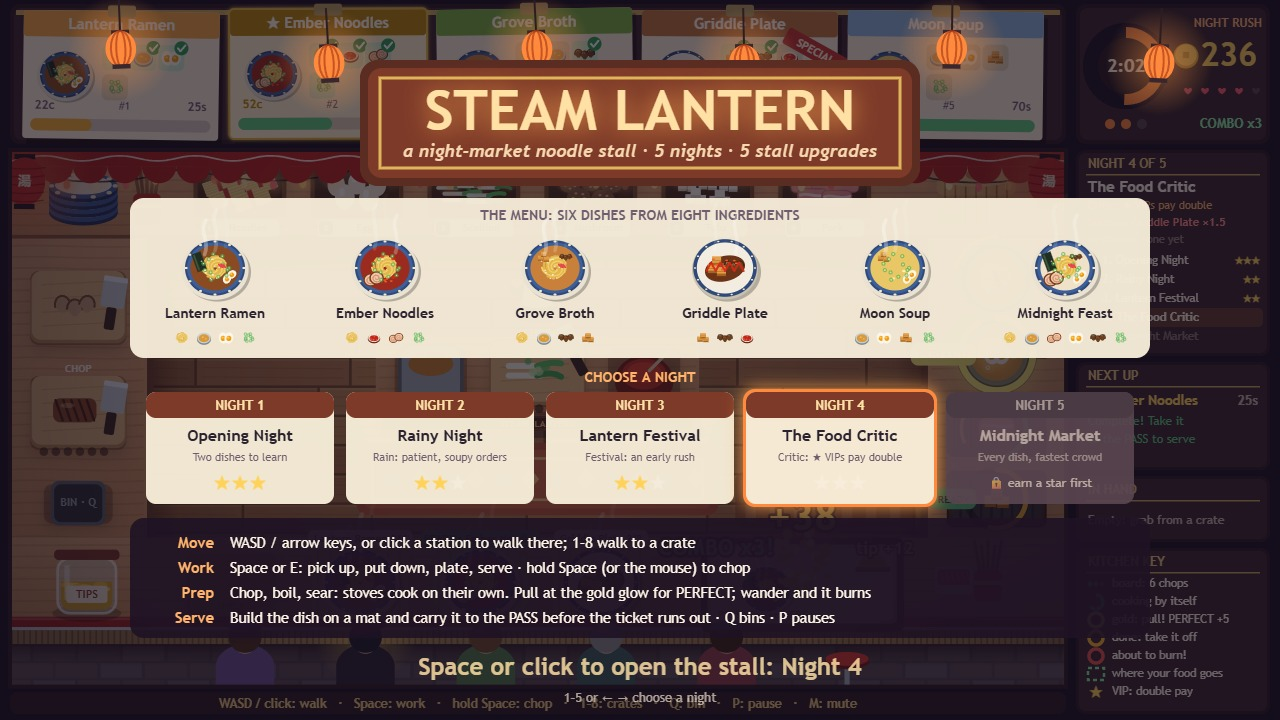
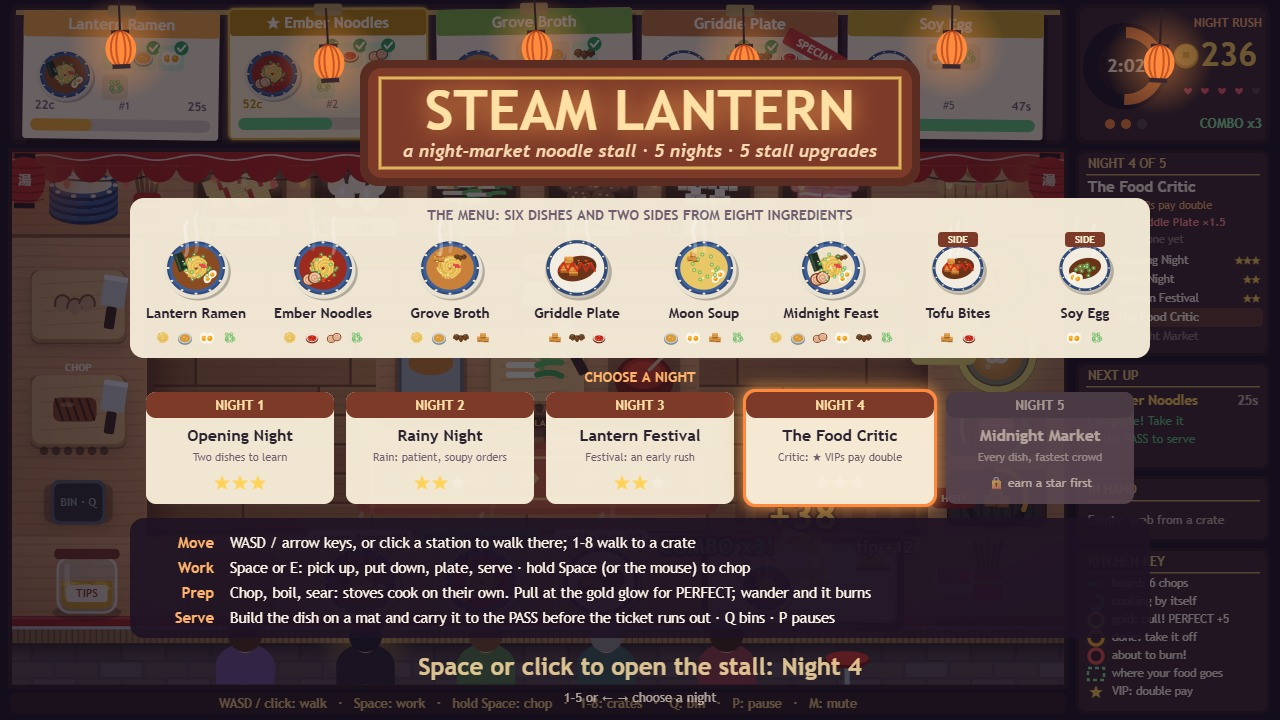
Side dishes: Tofu Bites and Soy Egg, quick little plates between the bowls

diff --git a/game/src/nights.js b/game/src/nights.js
@@ -14,22 +14,22 @@ export const NIGHTS = [
   },
   {
     id: 2, name: 'Rainy Night', blurb: 'Fewer customers, but they all want soup.',
-    seconds: 200, menu: ['lantern', 'grove', 'moon'], late: ['ember'], lateAt: 0.5,
+    seconds: 200, menu: ['lantern', 'grove', 'moon', 'soyegg'], late: ['ember'], lateAt: 0.5,
     spawnStart: 30, spawnEnd: 18, patience: 1.45, special: 'grove', twist: TWIST_RAIN, stars: [110, 250, 370],
   },
   {
     id: 3, name: 'Lantern Festival', blurb: 'The street fills up: a long, loud rush.',
-    seconds: 240, menu: ['lantern', 'ember', 'grove'], late: ['griddle', 'moon'], lateAt: 0.3,
+    seconds: 240, menu: ['lantern', 'ember', 'grove', 'bites'], late: ['griddle', 'moon', 'soyegg'], lateAt: 0.3,
     spawnStart: 25, spawnEnd: 11.5, patience: 1.12, special: 'lantern', twist: TWIST_FESTIVAL, stars: [120, 260, 390],
   },
   {
     id: 4, name: 'The Food Critic', blurb: 'Gold VIP tickets pay double, and wait half as long.',
-    seconds: 240, menu: ['lantern', 'ember', 'grove', 'griddle'], late: ['moon', 'feast'], lateAt: 0.45,
+    seconds: 240, menu: ['lantern', 'ember', 'grove', 'griddle', 'bites', 'soyegg'], late: ['moon', 'feast'], lateAt: 0.45,
     spawnStart: 26, spawnEnd: 12.5, patience: 1.15, special: 'griddle', twist: TWIST_CRITIC, stars: [130, 300, 440],
   },
   {
     id: 5, name: 'Midnight Market', blurb: 'Every dish, the fastest crowd. Good luck.',
-    seconds: 240, menu: ['lantern', 'ember', 'grove', 'griddle', 'moon'], late: ['feast'], lateAt: 0.25,
+    seconds: 240, menu: ['lantern', 'ember', 'grove', 'griddle', 'moon', 'bites', 'soyegg'], late: ['feast'], lateAt: 0.25,
     spawnStart: 21, spawnEnd: 10, patience: 1.02, special: 'feast', twist: null, stars: [130, 270, 400],
   },
 ];

diff --git a/game/src/shots.js b/game/src/shots.js
@@ -102,7 +102,7 @@ function stageService(world, fx) {
   startCooking(world, 'noodles', 'pot-a', 3.6);
   startCooking(world, 'egg', 'pot-b', 8);
   startCooking(world, 'pork', 'griddle-a', 2.4);
-  startCooking(world, 'tofu', 'griddle-b', 8.2);
+  startCooking(world, 'tofu', 'griddle-b', 10);
   // The chef at the island board, mid-way through the scallions for the Lantern Ramen.
   work(world, 'crate-scallion');
   const board = work(world, 'board-c');
@@ -116,7 +116,7 @@ function stageService(world, fx) {
   ticket(world, 'ember', 0.52, true);
   ticket(world, 'grove', 0.74);
   ticket(world, 'griddle', 0.9);
-  ticket(world, 'moon', 1);
+  ticket(world, 'soyegg', 1);
   world.events.push({ type: 'serve', x: 948, y: 650, earned: 38, tip: 12, bonus: 4, combo: 3, contents: ['broth', 'noodles', 'egg', 'scallion'] });
   world.events.push({ type: 'chop', x: board.cx, y: board.cy, station: board.id, kind: 'scallion', stroke: 3 });
   applyEvents(fx, world.events, world.orders);
@@ -156,7 +156,7 @@ function stageLastCall(world, fx) {
   setNight(world, 214, { coins: 371, served: 13, missed: 2, combo: 5, bestCombo: 5 });
   ticket(world, 'feast', 0.22);
   ticket(world, 'moon', 0.41);
-  ticket(world, 'grove', 0.63);
+  ticket(world, 'bites', 0.63);
   // An Ember Noodles just went out: its ticket lifts away and its diner beams.
   const served = ticket(world, 'ember', 0.8);
   served.served = true;

diff --git a/game/src/render/screens-view.js b/game/src/render/screens-view.js
@@ -105,12 +105,16 @@ export function drawTitle(ctx, time, progress, selected) {
   ctx.restore();
   text(ctx, 'a night-market noodle stall · 5 nights · 5 stall upgrades', 640, 152, 18, '#f6d7b0', 'center', 'italic bold');
 
-  // The menu: six dishes from eight ingredients.
+  // The menu: six dishes and two sides from eight ingredients.
   roundRect(ctx, 130, 198, 1020, 160, 14, 'rgba(246,236,216,0.96)');
-  text(ctx, 'THE MENU: SIX DISHES FROM EIGHT INGREDIENTS', 640, 216, 14, PALETTE.inkSoft);
+  text(ctx, 'THE MENU: SIX DISHES AND TWO SIDES FROM EIGHT INGREDIENTS', 640, 216, 14, PALETTE.inkSoft);
   RECIPES.forEach((recipe, i) => {
-    const x = 215 + i * 170;
-    drawDish(ctx, recipe.items, x, 268, 30, { steam: time + i });
+    const x = 196 + i * 127;
+    drawDish(ctx, recipe.items, x, 268, recipe.side ? 24 : 29, { steam: time + i });
+    if (recipe.side) {
+      roundRect(ctx, x - 20, 232, 40, 15, 4, '#7d3a28');
+      text(ctx, 'SIDE', x, 240, 10, '#fff3d6');
+    }
     text(ctx, recipe.name, x, 314, 14, PALETTE.ink);
     recipe.items.forEach((kind, k) => drawIngredientIcon(ctx, kind, x - (recipe.items.length - 1) * 11 + k * 22, 338, 22));
   });

diff --git a/game/src/recipes.js b/game/src/recipes.js
@@ -35,6 +35,9 @@ export const RECIPES = [
   { id: 'griddle', name: 'Griddle Plate', items: ['tofu', 'mushroom', 'chili'], price: 20, patience: 62, unlock: 70, hue: '#c0763b' },
   { id: 'moon', name: 'Moon Soup', items: ['broth', 'egg', 'tofu', 'scallion'], price: 24, patience: 66, unlock: 110, hue: '#8fb8de' },
   { id: 'feast', name: 'Midnight Feast', items: ['noodles', 'broth', 'pork', 'egg', 'mushroom', 'scallion'], price: 44, patience: 98, unlock: 150, hue: '#b07cd8' },
+  // Sides: quick little plates from two ingredients, cheap and impatient, slotted between bowls.
+  { id: 'bites', name: 'Tofu Bites', items: ['tofu', 'chili'], price: 12, patience: 46, unlock: 0, hue: '#d9822b', side: true },
+  { id: 'soyegg', name: 'Soy Egg', items: ['egg', 'scallion'], price: 11, patience: 44, unlock: 0, hue: '#c9a227', side: true },
 ];
 
 export const RECIPE_BY_ID = Object.fromEntries(RECIPES.map((recipe) => [recipe.id, recipe]));

diff --git a/game/src/shift.js b/game/src/shift.js
@@ -77,7 +77,7 @@ export function chooseRecipe(shift, random, lastId) {
   let total = 0;
   const weights = menu.map((recipe) => {
     const fresh = freshWindow && shift.night.late.includes(recipe.id) ? 1.8 : 1;
-    const weight = (recipe.id === lastId ? 0.35 : 1) * fresh;
+    const weight = (recipe.id === lastId ? 0.35 : 1) * fresh * (recipe.side ? 0.55 : 1);
     total += weight;
     return weight;
   });

diff --git a/README.md b/README.md
@@ -23,6 +23,7 @@ Tickets clip onto the order board, and each one is a dish with a patience bar. T
   - a strip under the kitchen keeps the controls in view;
   - stations where your food can go are outlined;
   - dishes on the mats show their progress ("Lantern Ramen 3/4", "READY").
+- **Side dishes**: Tofu Bites and Soy Egg, quick two-ingredient plates that slot between the bowls from night 2.
 - **Tonight's special**: one dish each night pays half again, marked with a red ribbon on its ticket.
 - **Stall upgrades**: every night's coins go into the bank, and the results card sells five lasting upgrades (Sharp Knife, Gold Ladle, Heavy Pans, Paper Lanterns, Tip Jar Sign).
 - **Tips for speed and combos for streaks**. You get five hearts, and a customer who walks out costs one. Each night has its own stars and best score.
